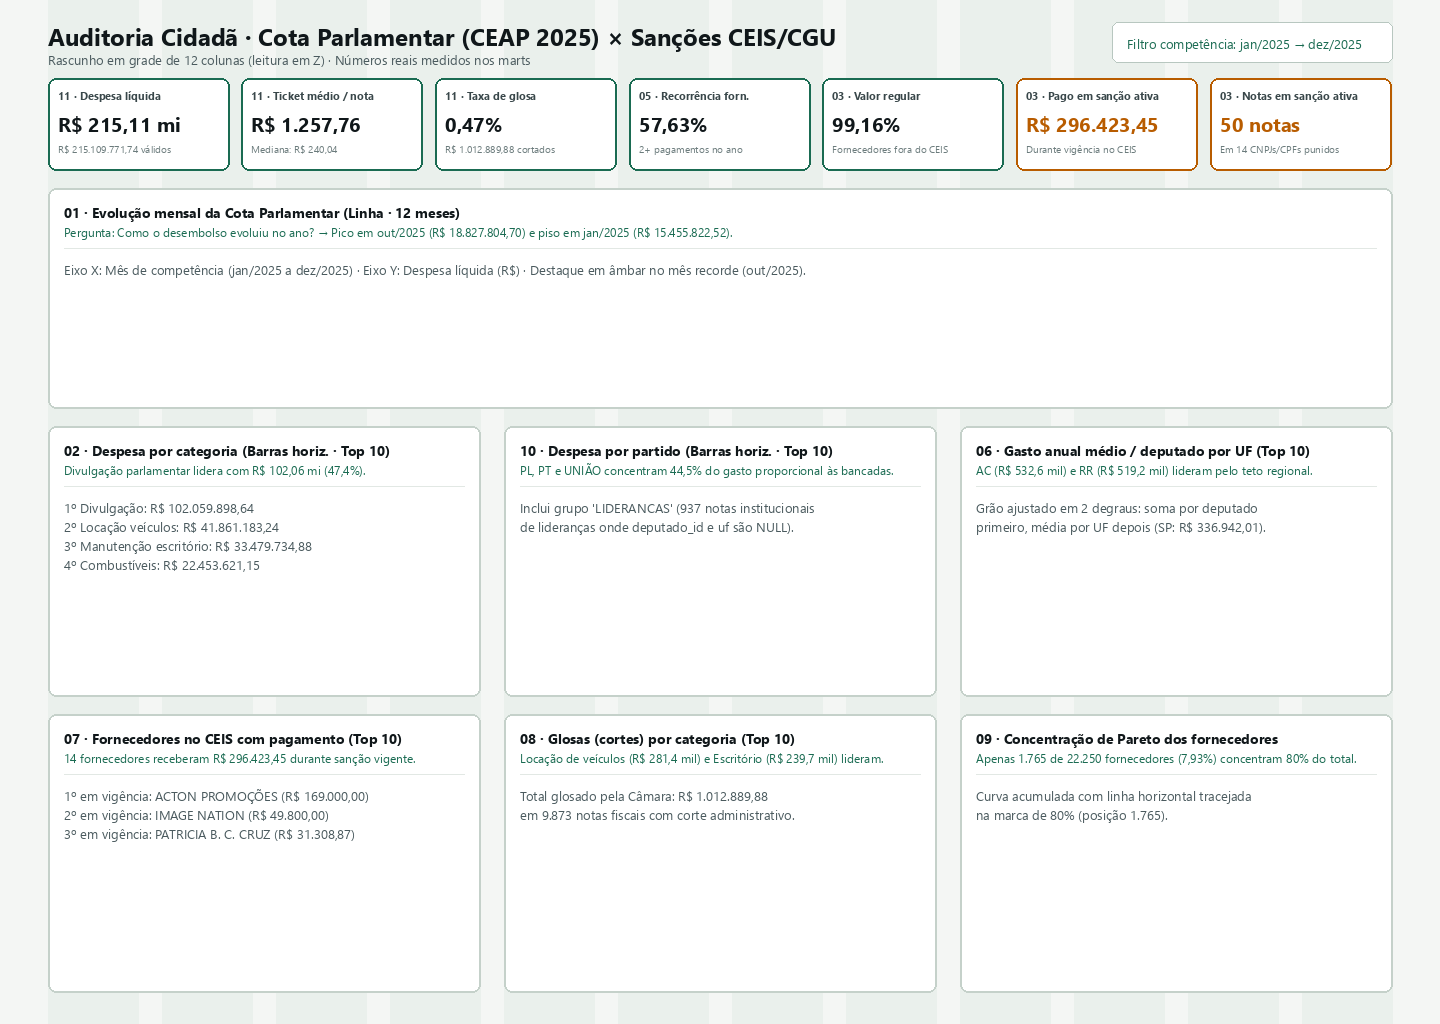
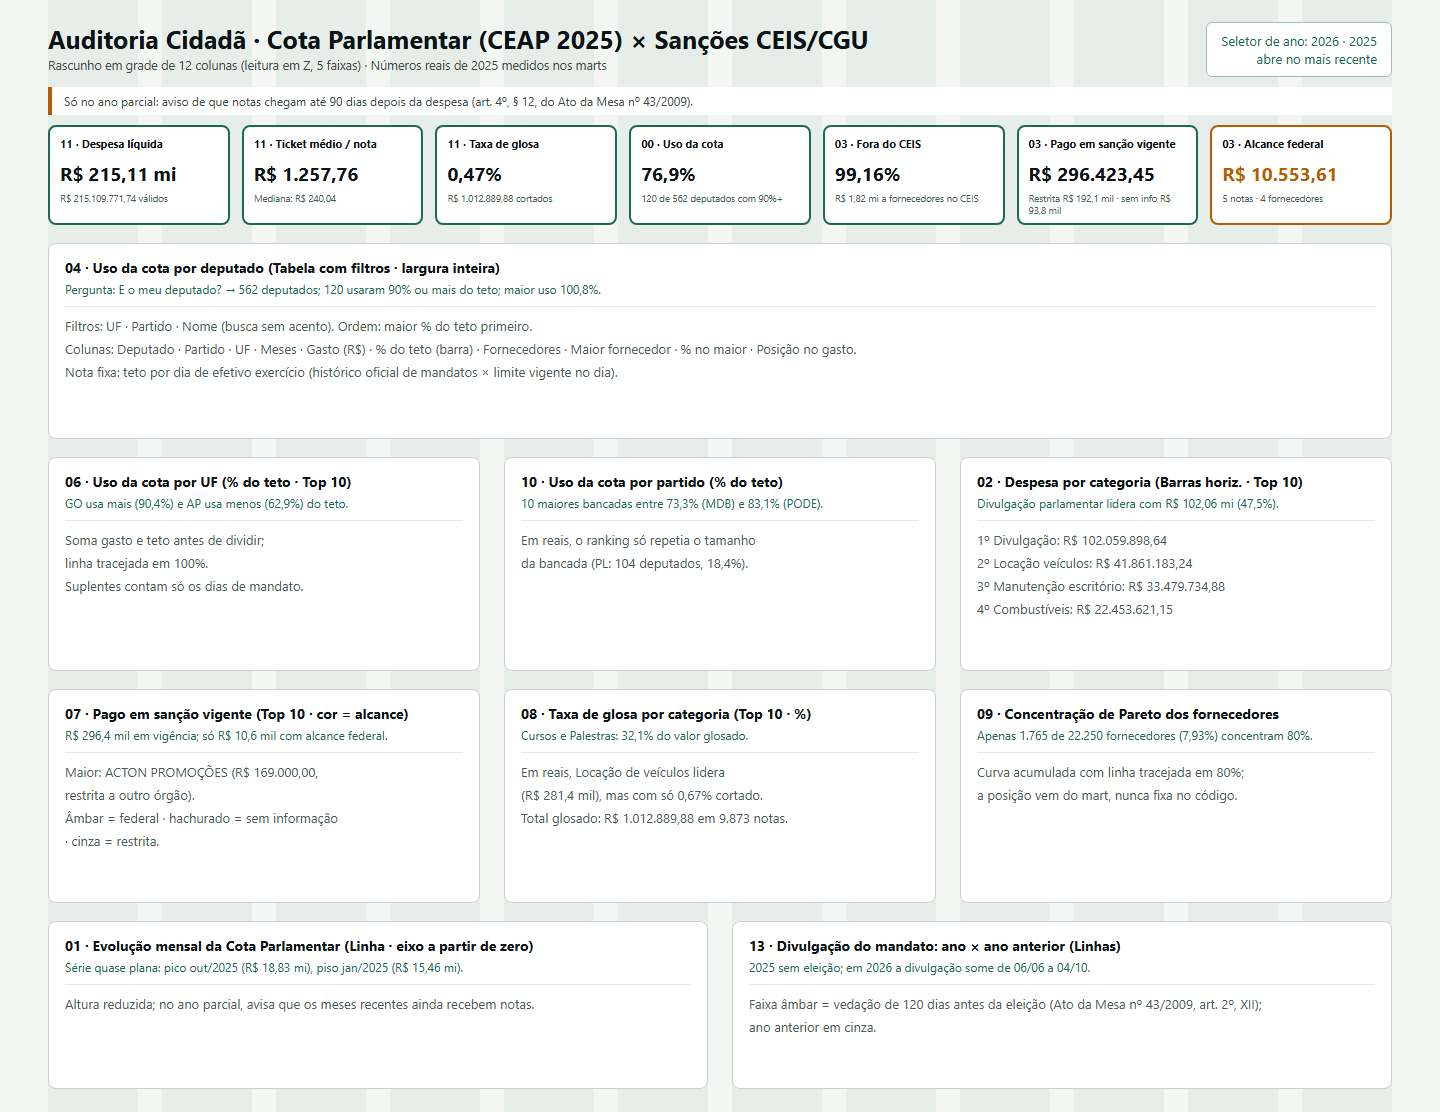
fix(app): monta o banco no deploy do Streamlit Cloud e atualiza o rascunho do layout

diff --git a/app.py b/app.py
@@ -6,6 +6,10 @@ Execução:
 Regra central: este arquivo não calcula nenhum indicador; apenas lê os DataFrames
 prontos via painel.ler(), desenha os cartões de painel.cartoes(), a tabela de
 painel.tabela_deputados() e as figuras Plotly em 5 faixas.
+
+Deploy (Streamlit Community Cloud): o auditoria.duckdb não é versionado. Se ele não
+existir, garantir_banco() roda ingestão, transformação e marts a partir de raw/ uma
+única vez por servidor; localmente, com o banco já gerado, não faz nada.
 """
 
 import importlib
@@ -47,8 +51,20 @@ _CSS_ALTO_CONTRASTE = """
 """
 
 
+@st.cache_resource(show_spinner="Montando o banco a partir de raw/ (só na primeira visita, 1 a 2 minutos)...")
+def garantir_banco() -> None:
+    if painel.CAMINHO_BANCO.is_file():
+        return
+    from pipeline import ingestao, marts, transformacao
+
+    ingestao.executar_ingestao()
+    transformacao.executar_transformacao()
+    marts.executar_marts()
+
+
 @st.cache_data
 def carregar_dados() -> dict[str, pd.DataFrame]:
+    garantir_banco()
     return painel.ler()
 
 

diff --git a/README.md b/README.md
@@ -8,7 +8,7 @@ Pipeline completo de Engenharia de Dados construído do zero com **Spec-Driven D
 
 ![Painel de 2025: cartões executivos, tabela de uso da cota por deputado e gráficos por UF, partido, categoria, sanções, glosas e concentração de fornecedores](design/painel.png)
 
-<sub>Página de 2025 no GitHub Pages. O primeiro rascunho do layout, em grade de 12 colunas, está em [`design/rascunho.png`](design/rascunho.png).</sub>
+<sub>Página de 2025 no GitHub Pages. O rascunho do layout (grade de 12 colunas, 5 faixas, com a pergunta e o número de conferência de cada bloco) está em [`design/rascunho.png`](design/rascunho.png).</sub>
 
 ---
 
